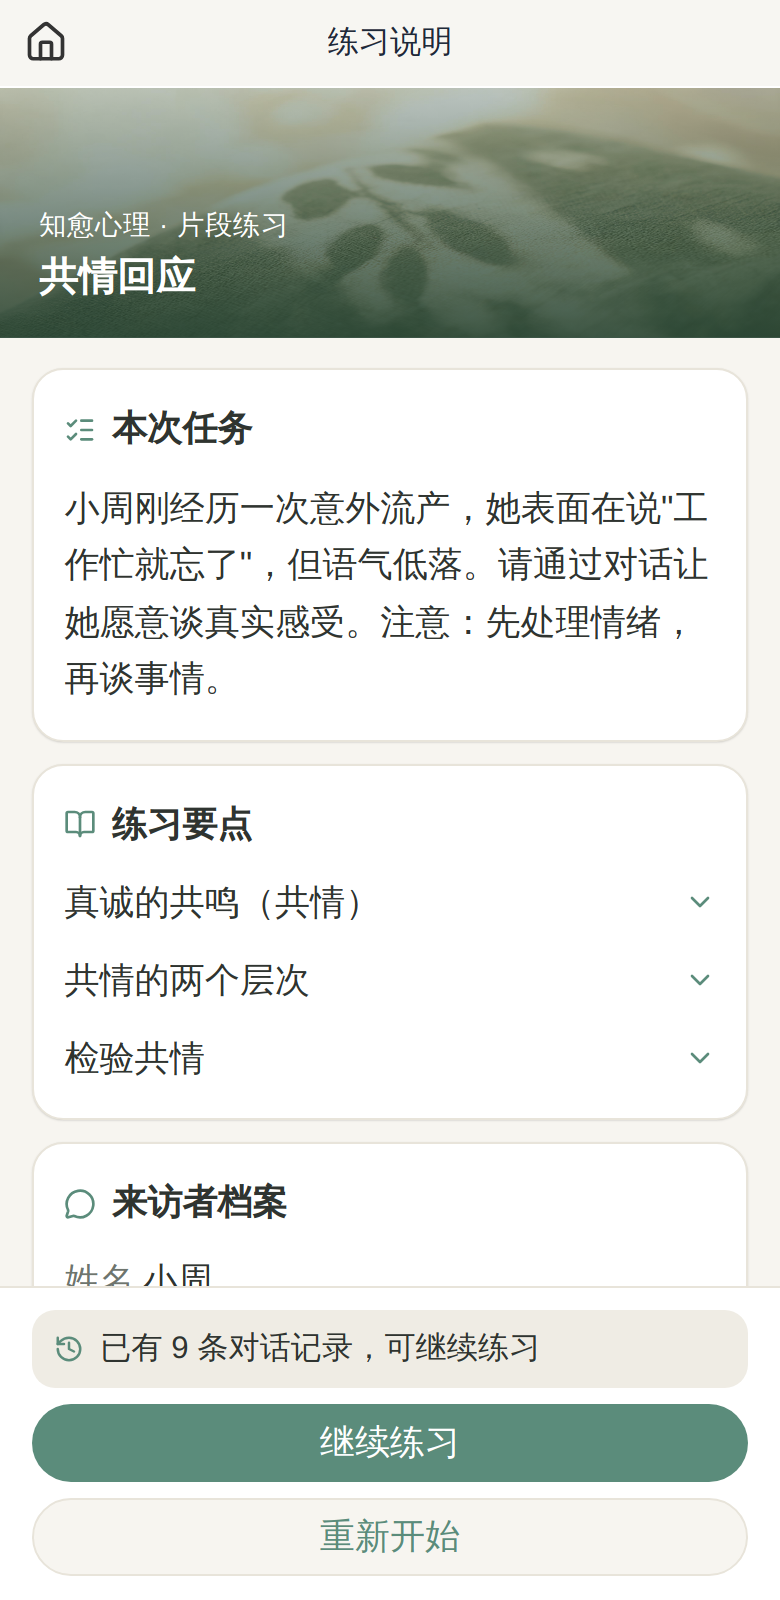
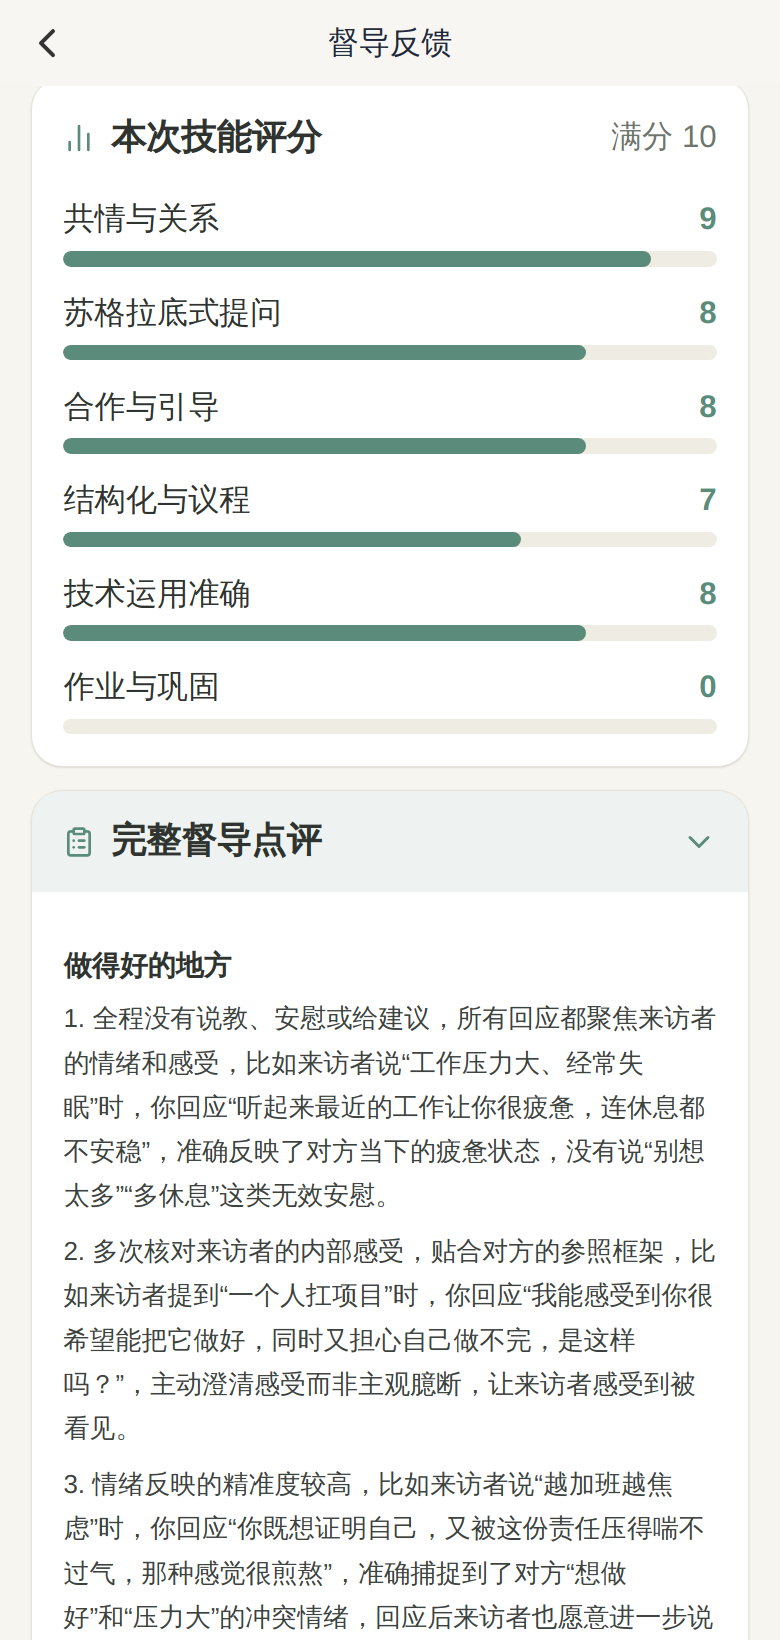
fix(cbt): 修复督导反馈接口对缺省数组字段的 join 报错
Coze-Commit-Type: user
Coze-User-ID: 2785501174576960
Coze-Conversation-ID: 13093574

diff --git a/server/src/cbt/cbt.service.ts b/server/src/cbt/cbt.service.ts
@@ -225,15 +225,15 @@ ${stateLines.length ? stateLines.join('\n') : ''}
 
     const userPrompt = `${sessionInfo}。
 来访者${c.name}的完整档案如下：
-- 主诉：${c.chiefComplaint}
-- 典型自动思维：${c.automaticThoughts.join('；')}
-- 情绪：${c.emotions.join('；')}
-- 行为/应对：${c.behaviors.join('；')}
-- 成长经历：${c.childhood}
-- 核心信念：${c.coreBeliefs.join('；')}
-- 态度：${c.attitudes.join('；')}
-- 规则：${c.rules.join('；')}
-- 假设：${c.assumptions.join('；')}
+- 主诉：${c.chiefComplaint ?? ''}
+- 典型自动思维：${(c.automaticThoughts ?? []).join('；')}
+- 情绪：${(c.emotions ?? []).join('；')}
+- 行为/应对：${(c.behaviors ?? []).join('；')}
+- 成长经历：${c.childhood ?? ''}
+- 核心信念：${(c.coreBeliefs ?? []).join('；')}
+- 态度：${(c.attitudes ?? []).join('；')}
+- 规则：${(c.rules ?? []).join('；')}
+- 假设：${(c.assumptions ?? []).join('；')}
 ${payload.sessionGoal ? `- 本次会谈目标：${payload.sessionGoal}` : ''}
 
 以下是完整对话记录：
